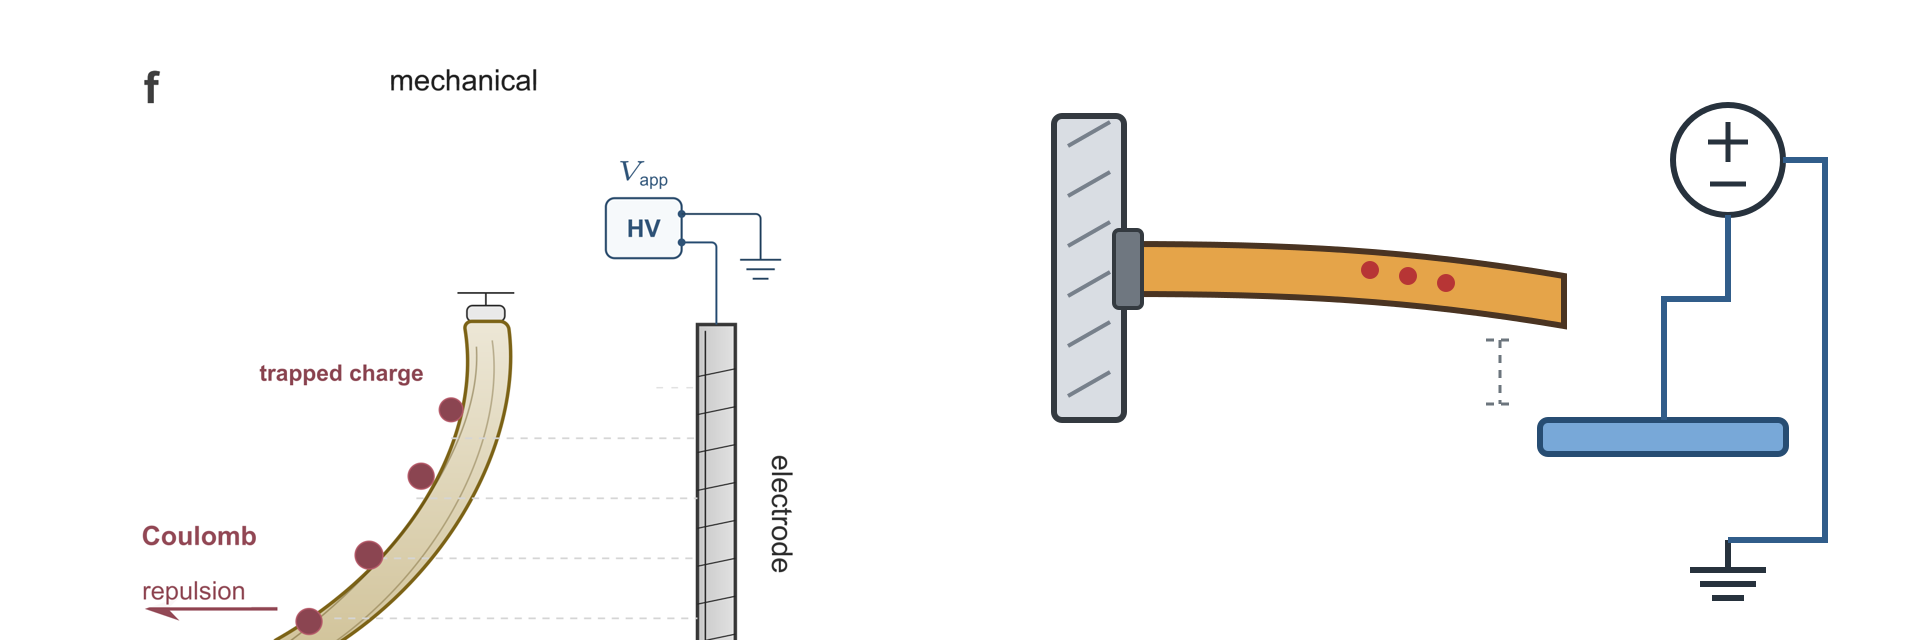
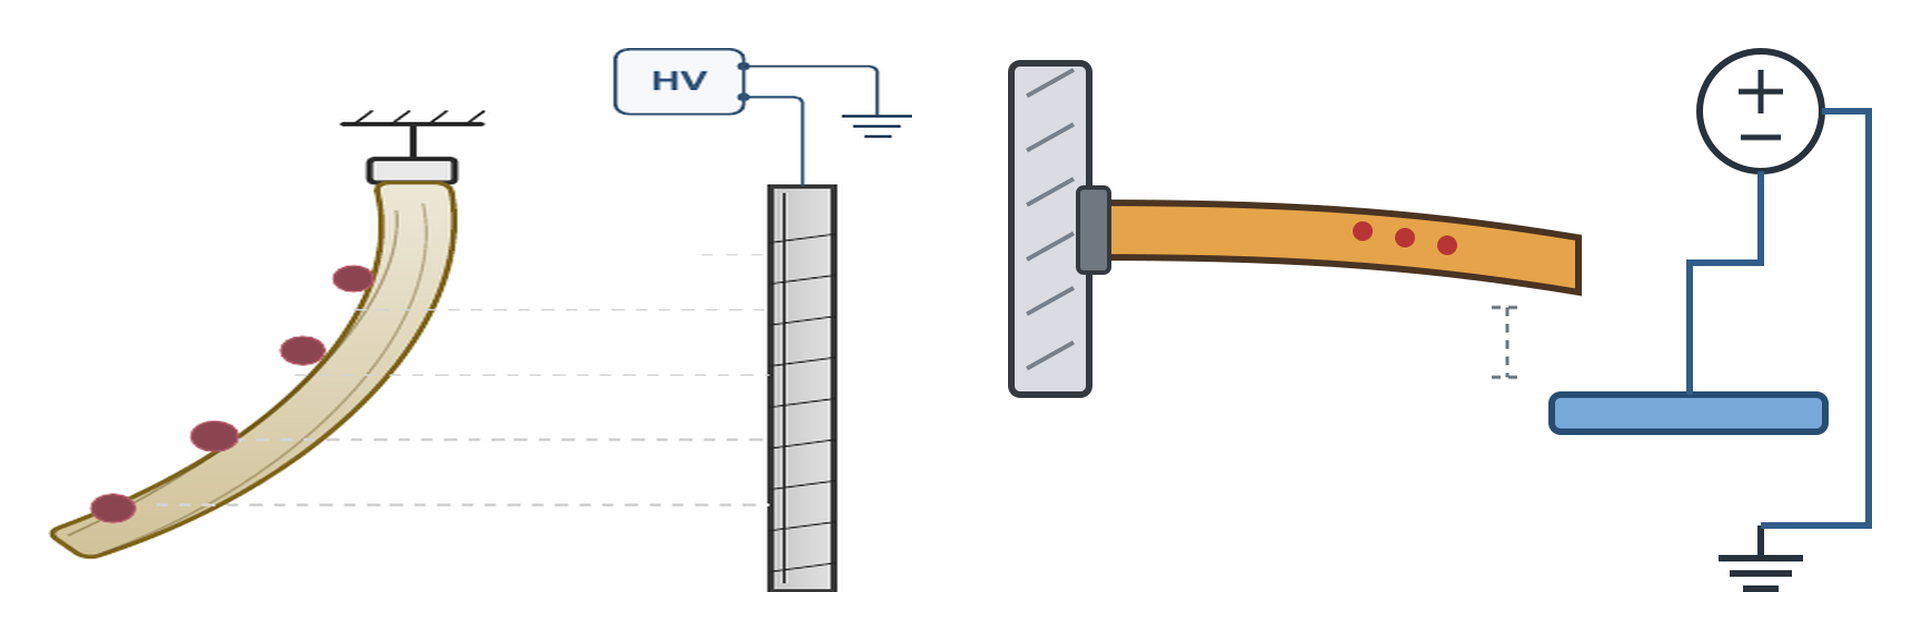
fix: harden panel f svg comparison packet

diff --git a/plugins/figure-agent/scripts/panel_f_motif_svg.py b/plugins/figure-agent/scripts/panel_f_motif_svg.py
@@ -9,18 +9,20 @@ from __future__ import annotations
 import argparse
 import hashlib
 import json
+import os
 import shutil
 import subprocess
 import tempfile
 from pathlib import Path
 
 import yaml
-from PIL import Image, ImageOps
+from PIL import Image
 
 PLUGIN_ROOT = Path(__file__).resolve().parents[1]
 DEFAULT_CONTRACT = PLUGIN_ROOT / "styles/snippets/panel-f-floating-cantilever.contract.yaml"
-TIKZ_BASELINE = PLUGIN_ROOT / "examples/fig1_failure_first_panel_f_pilot/build/panel_crops/F.png"
+APPROVED_SNIPPET = PLUGIN_ROOT / "styles/snippets/panel-f-floating-cantilever.tex"
 CANVAS = (960, 640)
+CONTENT_BOX = (48, 48, 912, 592)
 
 
 class ContractError(ValueError):
@@ -29,11 +31,19 @@ class ContractError(ValueError):
 
 def _validate_contract(path: Path) -> dict:
     data = yaml.safe_load(path.read_text(encoding="utf-8"))
-    required_objects = {"voltage_source", "ground", "floating_cantilever", "trapped_charge"}
-    if not isinstance(data, dict) or not required_objects <= set(data.get("objects", {})):
+    expected_states = {
+        "voltage_source": "driven",
+        "ground": "reference",
+        "floating_cantilever": "floating",
+        "trapped_charge": "trapped",
+    }
+    if not isinstance(data, dict) or set(data.get("objects", {})) != set(expected_states):
         raise ContractError("required objects are missing")
-    if data.get("objects", {}).get("floating_cantilever", {}).get("electrical_state") != "floating":
-        raise ContractError("required objects have invalid electrical state")
+    if any(
+        data["objects"][name].get("electrical_state") != state
+        for name, state in expected_states.items()
+    ):
+        raise ContractError("object states drifted")
 
     connectors = data.get("connectors", {})
     expected_connectors = {
@@ -44,6 +54,15 @@ def _validate_contract(path: Path) -> dict:
         "electrode_drive": ("electrical", ["voltage_source", "driven_electrode"]),
         "source_return": ("electrical", ["voltage_source", "ground"]),
     }
+    forbidden = {frozenset(connection) for connection in data.get("forbidden_connections", [])}
+    if frozenset(("floating_cantilever", "ground")) not in forbidden:
+        raise ContractError("forbidden connection floating_cantilever-to-ground is missing")
+    for connector in connectors.values():
+        endpoints = connector.get("connects", [])
+        if len(endpoints) == 2 and frozenset(endpoints) in forbidden:
+            raise ContractError("actual connector matches forbidden connection")
+    if set(connectors) != set(expected_connectors):
+        raise ContractError("connector set drifted")
     if any(
         connectors.get(name, {}).get("role") != role
         or connectors.get(name, {}).get("connects") != endpoints
@@ -58,8 +77,6 @@ def _validate_contract(path: Path) -> dict:
         "object": "floating_cantilever",
     }:
         raise ContractError("required relations drifted")
-    if ["floating_cantilever", "ground"] not in data.get("forbidden_connections", []):
-        raise ContractError("forbidden connection floating_cantilever-to-ground is missing")
     required_owns = {
         "fixed_mechanical_boundary",
         "floating_cantilever",
@@ -134,14 +151,58 @@ def _pixel_hash(path: Path) -> str:
         return hashlib.sha256(header + rgba.tobytes()).hexdigest()
 
 
-def _fit_canvas(source: Path, destination: Path) -> None:
+def _normalize_content_boundary(source: Path, destination: Path) -> None:
     with Image.open(source) as image:
-        normalized = ImageOps.contain(image.convert("RGBA"), CANVAS)
-        canvas = Image.new("RGBA", CANVAS, "white")
-        canvas.alpha_composite(
-            normalized, ((CANVAS[0] - normalized.width) // 2, (CANVAS[1] - normalized.height) // 2)
+        rgba = image.convert("RGBA")
+        white = Image.new("RGBA", rgba.size, "white")
+        white.alpha_composite(rgba)
+        rgb = white.convert("RGB")
+        mask = rgb.convert("L").point(lambda value: 255 if value < 248 else 0)
+        bbox = mask.getbbox()
+        if bbox is None:
+            raise ContractError(f"render has no foreground content: {source}")
+        content = rgb.crop(bbox).resize(
+            (CONTENT_BOX[2] - CONTENT_BOX[0], CONTENT_BOX[3] - CONTENT_BOX[1]),
+            Image.Resampling.LANCZOS,
         )
-        canvas.convert("RGB").save(destination, format="PNG", optimize=False)
+        canvas = Image.new("RGB", CANVAS, "white")
+        canvas.paste(content, CONTENT_BOX[:2])
+        canvas.save(destination, format="PNG", optimize=False)
+
+
+def _render_tikz_motif(destination: Path) -> None:
+    source = rf"""\documentclass[border=0pt]{{standalone}}
+\usepackage{{polymer-paper-preamble}}
+\input{{{APPROVED_SNIPPET.as_posix()}}}
+\begin{{document}}
+\begin{{tikzpicture}}
+\PanelFFloatingCantilever{{baseline}}{{0,0}}
+\end{{tikzpicture}}
+\end{{document}}
+"""
+    with tempfile.TemporaryDirectory() as tmp:
+        work = Path(tmp)
+        (work / "motif.tex").write_text(source, encoding="utf-8")
+        env = os.environ.copy()
+        env["TEXINPUTS"] = f"{PLUGIN_ROOT / 'styles'}:{env.get('TEXINPUTS', '')}"
+        try:
+            subprocess.run(
+                ["lualatex", "-interaction=nonstopmode", "-halt-on-error", "motif.tex"],
+                cwd=work,
+                env=env,
+                check=True,
+                capture_output=True,
+                text=True,
+            )
+        except subprocess.CalledProcessError as error:
+            raise ContractError(f"isolated TikZ motif failed to compile: {error.stdout}") from error
+        subprocess.run(
+            ["pdftoppm", "-singlefile", "-png", "-r", "300", "motif.pdf", "motif"],
+            cwd=work,
+            check=True,
+            capture_output=True,
+        )
+        _normalize_content_boundary(work / "motif.png", destination)
 
 
 def render_pilot(output_dir: Path) -> dict:
@@ -165,9 +226,9 @@ def render_pilot(output_dir: Path) -> dict:
         check=True,
         capture_output=True,
     )
-    _fit_canvas(raw_png, output_dir / "motif.png")
+    _normalize_content_boundary(raw_png, output_dir / "motif.png")
     raw_png.unlink()
-    _fit_canvas(TIKZ_BASELINE, output_dir / "tikz_baseline.png")
+    _render_tikz_motif(output_dir / "tikz_baseline.png")
 
     with (
         Image.open(output_dir / "tikz_baseline.png") as tikz,
@@ -183,8 +244,14 @@ def render_pilot(output_dir: Path) -> dict:
         "schema": "figure-agent.panel-f-svg-authority.v1",
         "contract": "styles/snippets/panel-f-floating-cantilever.contract.yaml",
         "contract_sha256": _sha256(DEFAULT_CONTRACT),
-        "tikz_baseline": "examples/fig1_failure_first_panel_f_pilot/build/panel_crops/F.png",
-        "tikz_baseline_sha256": _sha256(TIKZ_BASELINE),
+        "tikz_baseline": "isolated_approved_snippet_render",
+        "tikz_snippet": "styles/snippets/panel-f-floating-cantilever.tex",
+        "tikz_snippet_sha256": _sha256(APPROVED_SNIPPET),
+        "comparison_boundary": {
+            "canvas": list(CANVAS),
+            "content_box": list(CONTENT_BOX),
+            "normalization": "foreground_crop_resampled_to_equal_box",
+        },
         "approved_tikz_snippet_unchanged": True,
         "publication_acceptance": "not_claimed",
     }
@@ -211,6 +278,11 @@ def render_pilot(output_dir: Path) -> dict:
         "png_pixel_sha256": _pixel_hash(output_dir / "motif.png"),
         "tikz_pixel_sha256": _pixel_hash(output_dir / "tikz_baseline.png"),
         "comparison_sha256": _sha256(output_dir / "comparison.png"),
+        "authority_sha256": _sha256(output_dir / "authority.yaml"),
+        "contract_snapshot_sha256": _sha256(output_dir / "contract.snapshot.yaml"),
+        "tikz_baseline_sha256": _sha256(output_dir / "tikz_baseline.png"),
+        "human_review_sha256": _sha256(output_dir / "human_review.yaml"),
+        "backend_promotion": "not_authorized",
         "semantic_legibility_verdict": "pending",
         "visual_quality_vs_tikz": "pending",
         "publication_acceptance": "not_claimed",
@@ -224,10 +296,23 @@ def render_pilot(output_dir: Path) -> dict:
 def verify_pilot(pilot_dir: Path) -> dict:
     """Fail closed unless a packet matches two fresh deterministic replays."""
     pilot_dir = Path(pilot_dir)
-    receipt = json.loads((pilot_dir / "receipt.json").read_text(encoding="utf-8"))
+    try:
+        receipt = json.loads((pilot_dir / "receipt.json").read_text(encoding="utf-8"))
+        authority = yaml.safe_load((pilot_dir / "authority.yaml").read_text(encoding="utf-8"))
+        review = yaml.safe_load((pilot_dir / "human_review.yaml").read_text(encoding="utf-8"))
+        _validate_contract(pilot_dir / "contract.snapshot.yaml")
+    except (OSError, ValueError, yaml.YAMLError, json.JSONDecodeError) as error:
+        raise ContractError(f"invalid or missing pilot artifact: {error}") from error
     if receipt.get("publication_acceptance") != "not_claimed":
         raise ContractError("publication acceptance must remain not_claimed")
-    review = yaml.safe_load((pilot_dir / "human_review.yaml").read_text(encoding="utf-8"))
+    if receipt.get("backend_promotion") != "not_authorized":
+        raise ContractError("backend promotion must remain not_authorized")
+    if authority.get("publication_acceptance") != "not_claimed":
+        raise ContractError("authority publication acceptance drifted")
+    if review.get("backend_promotion") != "not_authorized":
+        raise ContractError("backend promotion must remain not_authorized")
+    if review.get("publication_acceptance") != "not_claimed":
+        raise ContractError("review publication acceptance drifted")
     if (
         review.get("semantic_legibility_verdict") != "pending"
         or review.get("visual_quality_vs_tikz") != "pending"
@@ -247,6 +332,16 @@ def verify_pilot(pilot_dir: Path) -> dict:
             raise ContractError("committed PNG differs from fresh replay")
         if receipt != first:
             raise ContractError("committed receipt differs from fresh replay")
+        bound_hashes = {
+            "authority_sha256": "authority.yaml",
+            "contract_snapshot_sha256": "contract.snapshot.yaml",
+            "tikz_baseline_sha256": "tikz_baseline.png",
+            "comparison_sha256": "comparison.png",
+            "human_review_sha256": "human_review.yaml",
+        }
+        for field, filename in bound_hashes.items():
+            if receipt.get(field) != _sha256(pilot_dir / filename):
+                raise ContractError(f"bound artifact hash mismatch: {filename}")
     return receipt
 
 

diff --git a/plugins/figure-agent/tests/test_panel_f_motif_svg.py b/plugins/figure-agent/tests/test_panel_f_motif_svg.py
@@ -2,19 +2,26 @@ from __future__ import annotations
 
 import hashlib
 import json
+import shutil
 import subprocess
 import sys
 import xml.etree.ElementTree as ET
 from pathlib import Path
 
+import numpy as np
 import pytest
 import yaml
-from PIL import Image
+from PIL import Image, ImageChops
 
 PLUGIN_ROOT = Path(__file__).resolve().parents[1]
 sys.path.insert(0, str(PLUGIN_ROOT / "scripts"))
 
-from panel_f_motif_svg import ContractError, render_pilot, render_svg  # noqa: E402
+from panel_f_motif_svg import (  # noqa: E402
+    ContractError,
+    render_pilot,
+    render_svg,
+    verify_pilot,
+)
 
 CONTRACT = PLUGIN_ROOT / "styles/snippets/panel-f-floating-cantilever.contract.yaml"
 PILOT = PLUGIN_ROOT / "examples/fig1_panel_f_svg_backend_pilot"
@@ -102,6 +109,36 @@ def test_render_svg_declares_relation_endpoints_and_connector_roles() -> None:
         ),
         (lambda data: data["relations"].clear(), "required relations"),
         (lambda data: data.update(forbidden_connections=[]), "forbidden connection"),
+        (
+            lambda data: data["objects"]["voltage_source"].update(electrical_state="floating"),
+            "object states",
+        ),
+        (
+            lambda data: data["objects"]["ground"].update(electrical_state="driven"),
+            "object states",
+        ),
+        (
+            lambda data: data["objects"]["trapped_charge"].update(electrical_state="floating"),
+            "object states",
+        ),
+        (
+            lambda data: data["connectors"].update(
+                unexpected={
+                    "role": "electrical",
+                    "connects": ["ground", "driven_electrode"],
+                }
+            ),
+            "connector set",
+        ),
+        (
+            lambda data: data["connectors"].update(
+                sample_ground={
+                    "role": "electrical",
+                    "connects": ["ground", "floating_cantilever"],
+                }
+            ),
+            "forbidden connection",
+        ),
     ],
 )
 def test_contract_drift_fails_closed(tmp_path: Path, mutation, message: str) -> None:
@@ -139,9 +176,8 @@ def test_committed_pilot_is_complete_and_verifiable() -> None:
     assert required <= {path.name for path in PILOT.iterdir()}
     authority = yaml.safe_load((PILOT / "authority.yaml").read_text(encoding="utf-8"))
     assert authority["contract"] == "styles/snippets/panel-f-floating-cantilever.contract.yaml"
-    assert authority["tikz_baseline"] == (
-        "examples/fig1_failure_first_panel_f_pilot/build/panel_crops/F.png"
-    )
+    assert authority["tikz_baseline"] == "isolated_approved_snippet_render"
+    assert authority["tikz_snippet"] == ("styles/snippets/panel-f-floating-cantilever.tex")
     review = yaml.safe_load((PILOT / "human_review.yaml").read_text(encoding="utf-8"))
     assert review["semantic_legibility_verdict"] == "pending"
     assert review["visual_quality_vs_tikz"] == "pending"
@@ -158,3 +194,53 @@ def test_committed_pilot_is_complete_and_verifiable() -> None:
     )
     assert result.returncode == 0, result.stderr
     assert "verified" in result.stdout.lower()
+
+
+def _foreground_bbox(path: Path) -> tuple[int, int, int, int] | None:
+    with Image.open(path) as image:
+        rgb = image.convert("RGB")
+        background = Image.new("RGB", rgb.size, "white")
+        difference = ImageChops.difference(rgb, background).convert("L")
+        return difference.point(lambda value: 255 if value > 7 else 0).getbbox()
+
+
+def test_tikz_baseline_is_isolated_to_the_same_content_boundary(tmp_path: Path) -> None:
+    render_pilot(tmp_path)
+    assert _foreground_bbox(tmp_path / "tikz_baseline.png") == (48, 48, 912, 592)
+    assert _foreground_bbox(tmp_path / "motif.png") == (48, 48, 912, 592)
+    with Image.open(tmp_path / "motif.png") as image:
+        rgb = image.convert("RGB")
+        assert rgb.getpixel((0, 0)) == (255, 255, 255)
+        assert int(np.all(np.asarray(rgb) == 0, axis=2).sum()) < 100
+
+
[email redacted](
+    "relative_path",
+    [
+        "authority.yaml",
+        "contract.snapshot.yaml",
+        "tikz_baseline.png",
+        "comparison.png",
+        "human_review.yaml",
+    ],
+)
+def test_verify_rejects_missing_or_tampered_bound_artifacts(
+    tmp_path: Path, relative_path: str
+) -> None:
+    packet = tmp_path / "packet"
+    shutil.copytree(PILOT, packet)
+    target = packet / relative_path
+    target.write_bytes(target.read_bytes() + b"tampered")
+    with pytest.raises(ContractError):
+        verify_pilot(packet)
+
+
+def test_verify_rejects_review_claim_drift(tmp_path: Path) -> None:
+    packet = tmp_path / "packet"
+    shutil.copytree(PILOT, packet)
+    review_path = packet / "human_review.yaml"
+    review = yaml.safe_load(review_path.read_text(encoding="utf-8"))
+    review["backend_promotion"] = "authorized"
+    review_path.write_text(yaml.safe_dump(review), encoding="utf-8")
+    with pytest.raises(ContractError, match="backend promotion"):
+        verify_pilot(packet)